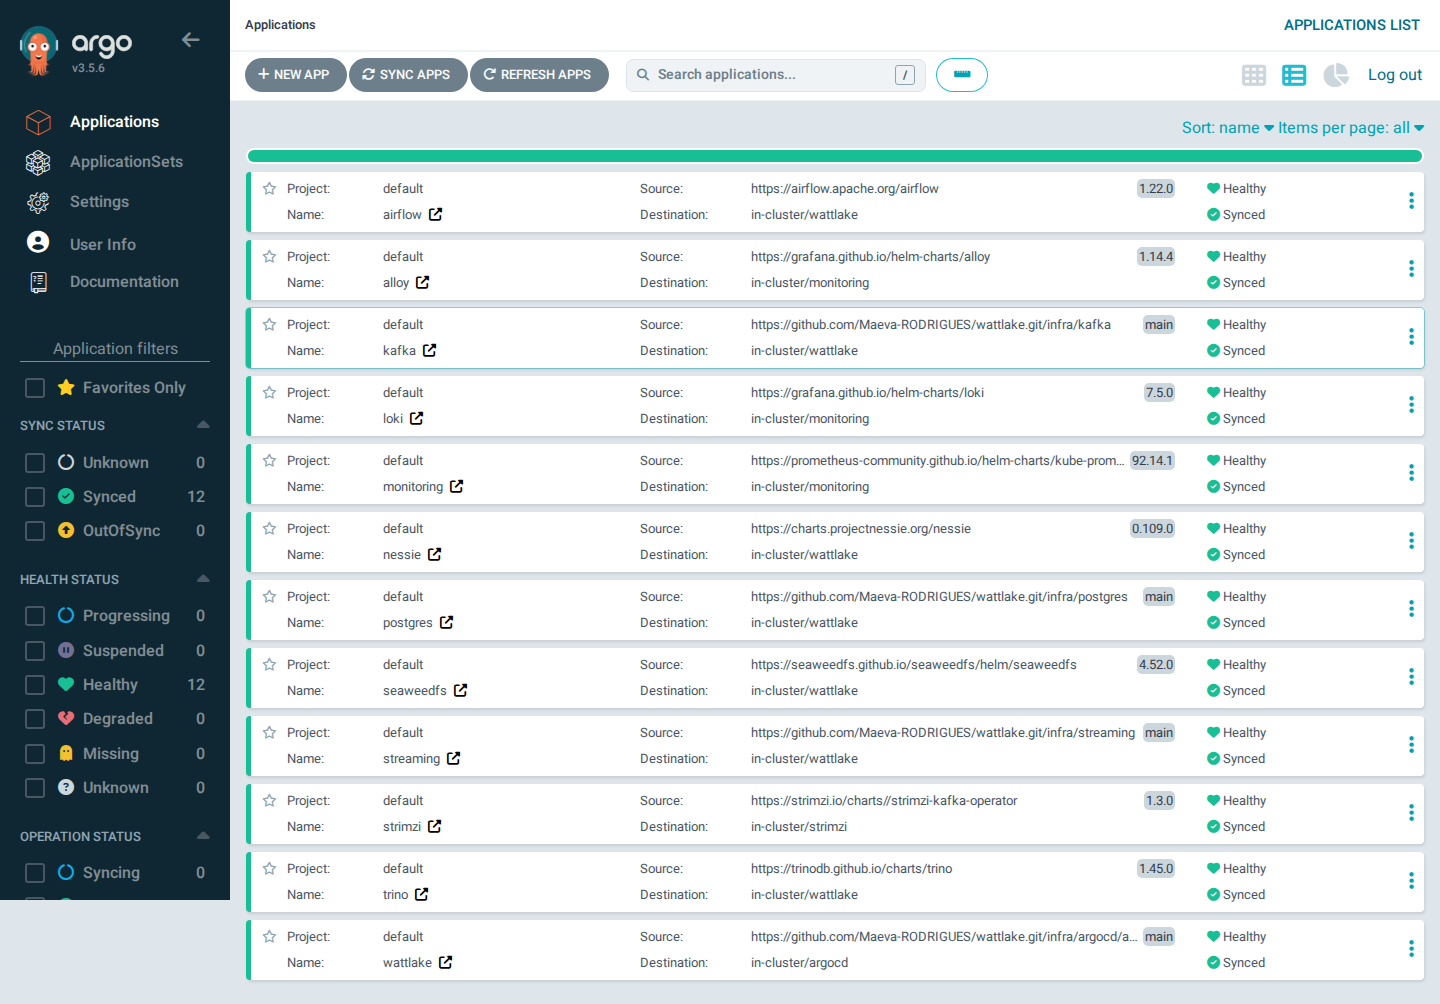
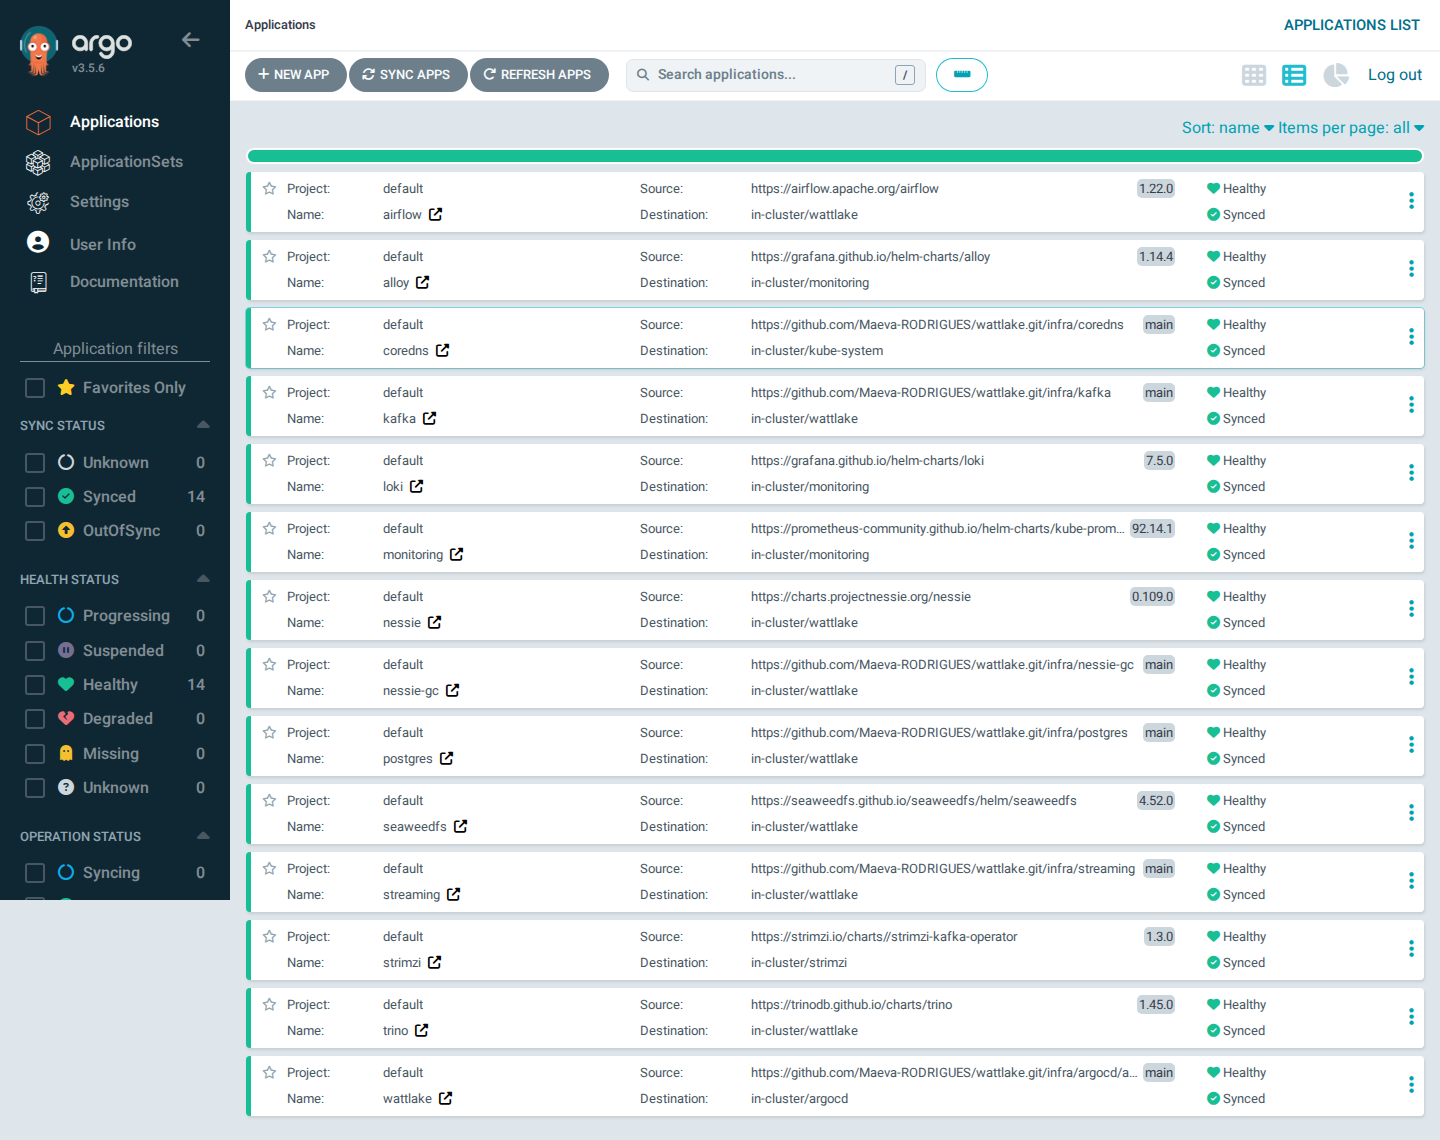
feat(tools): capture Airflow and a gold result in the screenshots

diff --git a/tools/screenshots/capture.py b/tools/screenshots/capture.py
@@ -1,10 +1,11 @@
 """Capture the README screenshots of the stack's web interfaces.
 
-Steps: run the smoke test, open port-forwards to Nessie, Trino, Argo CD and
-Grafana, take the screenshots with a headless Chromium into docs/images/, close
-the port-forwards. Each screenshot is taken only once the expected content is
-on screen. The Argo CD and Grafana passwords are read from their Secrets and
-only typed into the login forms: they are never printed or written to disk.
+Steps: run the smoke test, open port-forwards to Nessie, Trino, Airflow,
+Argo CD and Grafana, take the screenshots with a headless Chromium into
+docs/images/, close the port-forwards. Each screenshot is taken only once the
+expected content is on screen. The Airflow, Argo CD and Grafana passwords are
+read from their Secrets and only typed into the login forms: they are never
+printed or written to disk.
 
 Usage: make screenshots
 """
@@ -20,6 +21,7 @@ import urllib.request
 from contextlib import contextmanager
 from datetime import UTC, datetime
 from pathlib import Path
+from urllib.parse import quote
 
 from playwright.sync_api import Page, sync_playwright
 
@@ -33,19 +35,23 @@ TRINO_PORT = 18080
 NESSIE_PORT = 29120
 ARGOCD_PORT = 18082
 GRAFANA_PORT = 13000
+AIRFLOW_PORT = 18081
 TRINO_URL = f"http://127.0.0.1:{TRINO_PORT}"
 NESSIE_URL = f"http://127.0.0.1:{NESSIE_PORT}"
 ARGOCD_URL = f"http://127.0.0.1:{ARGOCD_PORT}"
 GRAFANA_URL = f"http://127.0.0.1:{GRAFANA_PORT}"
+AIRFLOW_URL = f"http://127.0.0.1:{AIRFLOW_PORT}"
 
 # Every Argo CD Application of the stack (infra/argocd/), all expected Synced and Healthy.
 ARGOCD_APPS = [
     "alloy",
     "airflow",
+    "coredns",
     "kafka",
     "loki",
     "monitoring",
     "nessie",
+    "nessie-gc",
     "postgres",
     "seaweedfs",
     "streaming",
@@ -54,6 +60,12 @@ ARGOCD_APPS = [
     "wattlake",
 ]
 REALTIME_TABLE = "iceberg.bronze.eco2mix_national_realtime"
+MONTHLY_GOLD_TABLE = "iceberg.gold.renewable_share_monthly"
+DBT_DAG = "dbt_transformations"
+# Its tasks, in order: the Write-Audit-Publish chain, then the daily compaction.
+DBT_DAG_TASKS = ["create_audit_branch", "dbt_build", "publish", "is_daily_compaction", "compact_silver_and_gold"]
+# Runs shown in the Airflow grid: a day of hourly runs, the compaction once.
+AIRFLOW_GRID_RUNS = "25"
 
 TRINO_USER = "wattlake"
 SMOKE_TABLE = "smoke_test.readings"
@@ -273,12 +285,23 @@ def capture_argocd_apps(page: Page) -> Path:
 
 def capture_argocd_streaming(page: Page) -> Path:
     """Resource tree of the streaming Application: producer and writer Deployments and their pods."""
-    page.goto(f"{ARGOCD_URL}/applications/argocd/streaming?view=tree")
-    for name in ("producer", "writer"):
-        page.get_by_text(name, exact=True).first.wait_for(timeout=TIMEOUT_MS)
-    page.wait_for_load_state("networkidle")
-    path = IMAGES_DIR / "argocd-streaming.png"
-    page.screenshot(path=path, full_page=True)
+    # Taller than the default: the tree scrolls inside the page, and every
+    # deployment adds a ReplicaSet (up to 10 kept per Deployment).
+    page.set_viewport_size({"width": VIEWPORT["width"], "height": 1050})
+    try:
+        page.goto(f"{ARGOCD_URL}/applications/argocd/streaming?view=tree")
+        for name in ("producer", "writer"):
+            page.get_by_text(name, exact=True).first.wait_for(timeout=TIMEOUT_MS)
+        page.wait_for_load_state("networkidle")
+        # The status panel shows the author of the synced commit, e-mail address
+        # included: no address may appear in the project's files.
+        page.locator(".application-status-panel__item__row").filter(has_text="Author:").evaluate_all(
+            "rows => rows.forEach(row => row.style.display = 'none')"
+        )
+        path = IMAGES_DIR / "argocd-streaming.png"
+        page.screenshot(path=path, full_page=True)
+    finally:
+        page.set_viewport_size(VIEWPORT)
     return path
 
 
@@ -307,6 +330,31 @@ def capture_grafana(page: Page) -> Path:
     return path
 
 
+def format_cell(value) -> str:
+    """A result value as Trino's CLI shows it: NULL as a dash, booleans in lower case."""
+    if value is None:
+        return "—"
+    if isinstance(value, bool):
+        return str(value).lower()
+    return html.escape(str(value))
+
+
+def render_query_result(page: Page, sql: str, columns: list[str], rows: list[list]) -> None:
+    """Lay out a query and its result rows in a plain HTML table, in the #result element."""
+    head = "".join(f"<th>{html.escape(c)}</th>" for c in columns)
+    body = "".join("<tr>" + "".join(f"<td>{format_cell(v)}</td>" for v in row) + "</tr>" for row in rows)
+    page.set_content(
+        "<html><body style='font-family: sans-serif; margin: 0'>"
+        "<div id='result' style='display: inline-block; padding: 16px'>"
+        f"<pre style='background:#f4f4f4; padding:12px; font-size:14px'>{html.escape(sql)}</pre>"
+        "<table style='border-collapse: collapse; font-size: 14px'>"
+        f"<thead><tr>{head}</tr></thead><tbody>{body}</tbody></table>"
+        "<style>th, td {border: 1px solid #ccc; padding: 6px 10px; text-align: right} th {background:#eaeaea}</style>"
+        f"<p style='color:#555'>{len(rows)} lignes, renvoyées par Trino ({TRINO_USER}).</p>"
+        "</div></body></html>"
+    )
+
+
 def capture_realtime_versions(page: Page) -> Path:
     """The versions of one quarter-hour in the real-time bronze table, as Trino returns them.
 
@@ -324,20 +372,114 @@ def capture_realtime_versions(page: Page) -> Path:
     if len(rows) < 2:
         raise RuntimeError(f"expected several versions of the quarter-hour, got {len(rows)} row(s)")
 
-    head = "".join(f"<th>{html.escape(c)}</th>" for c in columns)
-    body = "".join("<tr>" + "".join(f"<td>{html.escape(str(v))}</td>" for v in row) + "</tr>" for row in rows)
-    page.set_content(
-        "<html><body style='font-family: sans-serif; margin: 0'>"
-        "<div id='result' style='display: inline-block; padding: 16px'>"
-        f"<pre style='background:#f4f4f4; padding:12px; font-size:14px'>{html.escape(sql)}</pre>"
-        "<table style='border-collapse: collapse; font-size: 14px'>"
-        f"<thead><tr>{head}</tr></thead><tbody>{body}</tbody></table>"
-        "<style>th, td {border: 1px solid #ccc; padding: 6px 10px; text-align: right} th {background:#eaeaea}</style>"
-        f"<p style='color:#555'>{len(rows)} lignes, renvoyées par Trino ({TRINO_USER}).</p>"
-        "</div></body></html>"
-    )
+    render_query_result(page, sql, columns, rows)
     path = IMAGES_DIR / "trino-realtime-versions.png"
     page.locator("#result").screenshot(path=path)
+    return path
+
+
+def capture_renewable_share(page: Page) -> Path:
+    """The yearly share of renewables in the monthly gold table, as Trino returns it.
+
+    The strict share (statistical conventions of the SDES) is NULL in 2012:
+    the technology detail it needs is published from 2013 only.
+    """
+    sql = (
+        "SELECT year(month) AS annee,\n"
+        "       round(100 * sum(renewable_mwh) / sum(production_mwh), 1) AS part_large_pct,\n"
+        "       round(100 * sum(renewable_strict_mwh) / sum(production_with_detail_mwh), 1) AS part_stricte_pct,\n"
+        "       bool_or(is_partial) AS annee_en_cours\n"
+        f"FROM {MONTHLY_GOLD_TABLE}\n"
+        "GROUP BY 1 ORDER BY 1"
+    )
+    columns, rows = trino_query(sql)
+    if len(rows) < 10:
+        raise RuntimeError(f"expected one row per year since 2012, got {len(rows)}")
+    render_query_result(page, sql, columns, rows)
+    path = IMAGES_DIR / "gold-renewable-share.png"
+    page.locator("#result").screenshot(path=path)
+    return path
+
+
+def login_airflow(page: Page) -> None:
+    page.goto(f"{AIRFLOW_URL}/auth/login/")
+    page.locator("input[name=username]").fill("admin")
+    page.locator("input[name=password]").fill(read_secret(NAMESPACE, "airflow-credentials", "admin-password"))
+    page.locator("input[type=submit]").click()
+    page.wait_for_url(lambda url: "/auth/login" not in url, timeout=TIMEOUT_MS)
+
+
+def latest_compaction_run(page: Page) -> str:
+    """Id of the latest successful dbt run that also compacted silver and gold, from Airflow's REST API.
+
+    The browser session, once logged in, authenticates the API calls.
+    """
+    api = f"{AIRFLOW_URL}/api/v2/dags/{DBT_DAG}/dagRuns"
+    runs = page.request.get(f"{api}?state=success&order_by=-run_after&limit=50")
+    if not runs.ok:
+        raise RuntimeError(f"Airflow API: HTTP {runs.status} on the DAG runs")
+    for run in runs.json()["dag_runs"]:
+        tasks = page.request.get(f"{api}/{run['dag_run_id']}/taskInstances").json()["task_instances"]
+        if {t["task_id"]: t["state"] for t in tasks}.get("compact_silver_and_gold") == "success":
+            return run["dag_run_id"]
+    raise RuntimeError("no successful dbt run with a compaction among the last 50")
+
+
+def capture_airflow_graph(page: Page) -> Path:
+    """Graph of the latest dbt run that compacted: Write-Audit-Publish, then the compaction, all succeeded."""
+    run_id = latest_compaction_run(page)
+    # A short viewport: the graph, centred in its canvas, sits right under
+    # the header (DAG and run id), without empty canvas around it.
+    page.set_viewport_size({"width": VIEWPORT["width"], "height": 330})
+    try:
+        page.goto(f"{AIRFLOW_URL}/dags/{DBT_DAG}/runs/{quote(run_id, safe='')}")
+        page.get_by_role("button", name="Afficher le graphe (Appuyez sur g)").click()
+        page.get_by_role("button", name="Replier le panneau des détails").click()
+        # Each task node shows its name and its state.
+        for task in DBT_DAG_TASKS:
+            page.locator(".react-flow__node", has_text=task).filter(has_text="success").wait_for(timeout=TIMEOUT_MS)
+        # Without the minimap and the zoom buttons, which would cover the last task.
+        page.add_style_tag(content=".react-flow__minimap, .react-flow__controls, .react-flow__panel {display: none}")
+        # No tooltip: the pointer rests on the empty canvas.
+        page.mouse.move(VIEWPORT["width"] / 2, 320)
+        page.wait_for_load_state("networkidle")
+        page.wait_for_timeout(1000)
+        path = IMAGES_DIR / "airflow-dbt-graph.png"
+        page.screenshot(path=path)
+    finally:
+        page.set_viewport_size(VIEWPORT)
+    return path
+
+
+def capture_airflow_grid(page: Page) -> Path:
+    """Grid of the last runs of the dbt DAG: one column per hourly run, one row per task."""
+    # Narrow: the grid is drawn against the right edge, this keeps the task
+    # names close to their runs.
+    page.set_viewport_size({"width": 900, "height": VIEWPORT["height"]})
+    try:
+        page.goto(f"{AIRFLOW_URL}/dags/{DBT_DAG}")
+        # The UI remembers the last view: the graph, after capture_airflow_graph.
+        page.get_by_role("button", name="Afficher la grille (Appuyez sur g)").click()
+        page.get_by_role("button", name="Replier le panneau des détails").click()
+        page.get_by_role("button", name="Options").click()
+        # The "number of runs" select, 10 by default.
+        page.get_by_test_id("display-dag-run-options").get_by_role("combobox").click()
+        page.get_by_role("option", name=AIRFLOW_GRID_RUNS, exact=True).click()
+        page.keyboard.press("Escape")
+        page.evaluate("document.activeElement && document.activeElement.blur()")
+        # No tooltip: the pointer rests on the empty page below the grid.
+        page.mouse.move(450, VIEWPORT["height"] - 10)
+        page.wait_for_load_state("networkidle")
+        page.wait_for_timeout(2000)
+        last_row = page_box(page, page.get_by_text(DBT_DAG_TASKS[-1], exact=True).first)
+        margin = 16
+        path = IMAGES_DIR / "airflow-dbt-grid.png"
+        page.screenshot(
+            path=path,
+            clip={"x": 64, "y": 0, "width": 900 - 64, "height": last_row["y"] + last_row["height"] + margin},
+        )
+    finally:
+        page.set_viewport_size(VIEWPORT)
     return path
 
 
@@ -350,16 +492,24 @@ def main() -> int:
             (NAMESPACE, "trino", TRINO_PORT, 8080),
             ("argocd", "argocd-server", ARGOCD_PORT, 80),
             ("monitoring", "monitoring-grafana", GRAFANA_PORT, 80),
+            (NAMESPACE, "airflow-api-server", AIRFLOW_PORT, 8080),
         ),
         sync_playwright() as playwright,
     ):
         browser = playwright.chromium.launch(headless=True)
         try:
-            page = browser.new_page(viewport=VIEWPORT)
+            # Airflow shows dates in the browser's time zone, and its labels in
+            # the browser's language: UTC like the run ids, and French like the
+            # README. The Airflow captures find their buttons by these labels.
+            # "fr", not "fr-FR": Airflow falls back to English for the latter.
+            page = browser.new_page(viewport=VIEWPORT, timezone_id="UTC", locale="fr")
             captures = [
                 lambda: capture_nessie(page, started_at),
                 lambda: capture_trino(page),
                 lambda: capture_realtime_versions(page),
+                lambda: capture_renewable_share(page),
+                lambda: (login_airflow(page), capture_airflow_graph(page))[1],
+                lambda: capture_airflow_grid(page),
                 lambda: (login_argocd(page), capture_argocd_apps(page))[1],
                 lambda: capture_argocd_streaming(page),
                 lambda: capture_grafana(page),

diff --git a/README.md b/README.md
@@ -23,17 +23,21 @@ J'ai choisi les données de production et de consommation électrique parce qu'e
 
 ## Aperçu
 
-![Liste des Applications Argo CD, toutes synchronisées et saines](docs/images/argocd-applications.png)
+![Part des renouvelables par année, lue dans la couche gold](docs/images/gold-renewable-share.png)
 
-*Les 12 Applications Argo CD de la stack, toutes `Synced` et `Healthy` : le cluster est exactement ce que décrit la branche `main` du dépôt. Les charts Helm sont épinglés à une version, les manifestes du dépôt suivent `main`.*
+*Le résultat : la part des énergies renouvelables dans la production d'électricité en France, par année, lue dans la table gold `renewable_share_monthly`. La part large compte l'éolien, le solaire, l'hydraulique et les bioénergies ; la part stricte suit les conventions statistiques du SDES (sans le turbinage des stations de pompage, avec la moitié des déchets). Elle est vide (NULL, pas 0) en 2012, faute du détail par filière que la source ne publie qu'à partir de 2013. L'année en cours est signalée comme partielle.*
 
-![Arbre des ressources de l'Application streaming dans Argo CD](docs/images/argocd-streaming.png)
+![Graphe d'un run du DAG dbt dans Airflow](docs/images/airflow-dbt-graph.png)
 
-*L'Application `streaming` : le producteur (API vers Kafka) et le writer (Kafka vers Iceberg), chacun dans un `Deployment` à un réplica. Les anciens ReplicaSets sont les versions précédentes de l'image, gardées pour un retour arrière.*
+*Un run du DAG `dbt_transformations`, celui de 11:00 UTC : le Write-Audit-Publish (création de la branche `audit` depuis `main`, `dbt build` et ses tests sur cette branche, fusion dans `main`), puis le compactage quotidien de silver et gold, après la publication (ADR 008 et 017).*
+
+![Grille des 25 derniers runs du DAG dbt dans Airflow](docs/images/airflow-dbt-grid.png)
+
+*Les 25 derniers runs horaires, un par colonne. Deux histoires s'y lisent. La colonne rouge isolée est un run rattrapé au réveil du portable : la veille était incomplète, le test l'a vu, et `publish` n'a pas tourné (orange). Le bloc rouge est le premier déploiement de l'incrémental, refusé par Nessie (ADR 017) : `main` a gardé les dernières tables testées jusqu'à la correction. Les traits verticaux marquent les nouvelles versions du DAG. Le compactage ne tourne qu'au run de 11:00 UTC ; ailleurs, il est sauté (rose).*
 
 ![Tableau de bord WattLake dans Grafana](docs/images/grafana-wattlake.png)
 
-*Le tableau de bord « WattLake » dans Grafana : retard du writer (ici 14 messages, le dernier rafraîchissement de RTE, qui attendent le prochain lot du writer, au plus 5 minutes ; 0 quand la table Iceberg est à jour), messages publiés, exécutions des DAG Airflow, requêtes Trino, opérations du catalogue Nessie, et les logs du producteur et du writer collectés par Loki.*
+*Le tableau de bord « WattLake » dans Grafana, sur 24 heures : retard du writer (0 : la table Iceberg est à jour ; il monte jusqu'à une quinzaine de messages entre deux lots), messages publiés, exécutions des DAG Airflow, requêtes Trino, opérations du catalogue Nessie, et les logs du producteur et du writer collectés par Loki. Le trou de la nuit est la mise en veille du portable.*
 
 ![Versions d'un quart d'heure dans la table bronze temps réel](docs/images/trino-realtime-versions.png)
 
@@ -42,6 +46,14 @@ J'ai choisi les données de production et de consommation électrique parce qu'e
 ![Historique des commits de la branche main dans l'interface de Nessie](docs/images/nessie-commits.png)
 
 *Historique de la branche `main` dans Nessie après un smoke test. Chaque opération lancée depuis Trino (suppression, création du namespace, création de la table, insertion) devient un commit, comme dans Git. C'est ce versionnement qui permet de revenir à un état antérieur, et au DAG dbt de travailler sur une branche isolée avant de publier (Write-Audit-Publish).*
+
+![Liste des Applications Argo CD, toutes synchronisées et saines](docs/images/argocd-applications.png)
+
+*Les 14 Applications Argo CD de la stack, toutes `Synced` et `Healthy` : le cluster est exactement ce que décrit la branche `main` du dépôt. Les charts Helm sont épinglés à une version, les manifestes du dépôt suivent `main`.*
+
+![Arbre des ressources de l'Application streaming dans Argo CD](docs/images/argocd-streaming.png)
+
+*L'Application `streaming` : le producteur (API vers Kafka) et le writer (Kafka vers Iceberg), chacun dans un `Deployment` à un réplica. Les anciens ReplicaSets sont les versions précédentes de l'image, gardées pour un retour arrière.*
 
 ![Détail de la requête de contrôle du smoke test dans l'interface de Trino](docs/images/trino-query.png)
 
@@ -264,10 +276,10 @@ GROUP BY 1 ORDER BY 1;
 ### Régénérer les captures
 
 ```bash
-make screenshots     # smoke test, puis captures de Nessie, Trino, Argo CD et Grafana dans docs/images/
+make screenshots     # smoke test, puis captures de Nessie, Trino, Airflow, Argo CD et Grafana dans docs/images/
 ```
 
-Les mots de passe d'Argo CD et de Grafana sont lus dans leurs Secrets par le script ([tools/screenshots/capture.py](tools/screenshots/capture.py)) et seulement saisis dans les formulaires de connexion.
+Les mots de passe d'Airflow, d'Argo CD et de Grafana sont lus dans leurs Secrets par le script ([tools/screenshots/capture.py](tools/screenshots/capture.py)) et seulement saisis dans les formulaires de connexion.
 
 Au premier lancement, la cible crée un environnement virtuel `.venv` dans le projet et y installe Playwright et un Chromium headless (environ 450 Mo). Rien n'est installé en dehors du projet : supprimer `.venv` suffit à tout retirer.
 
